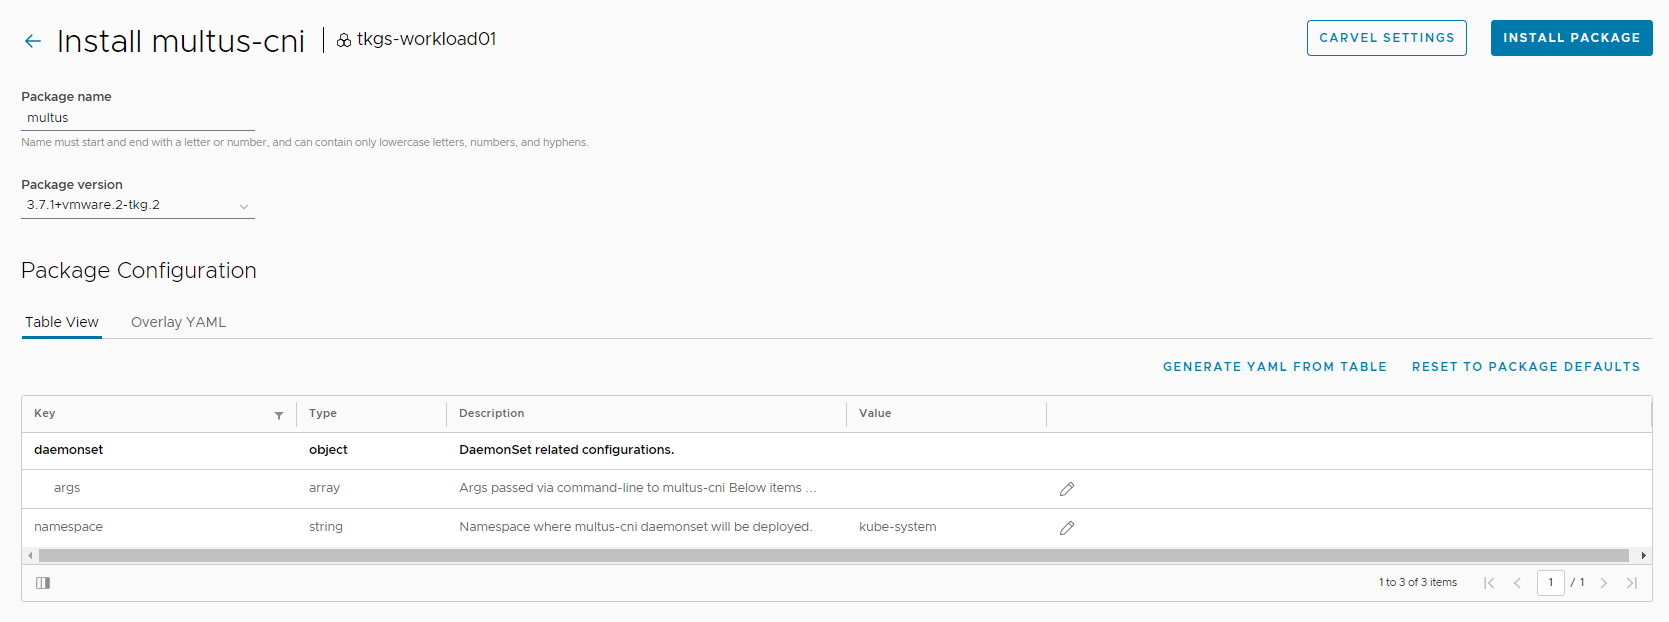
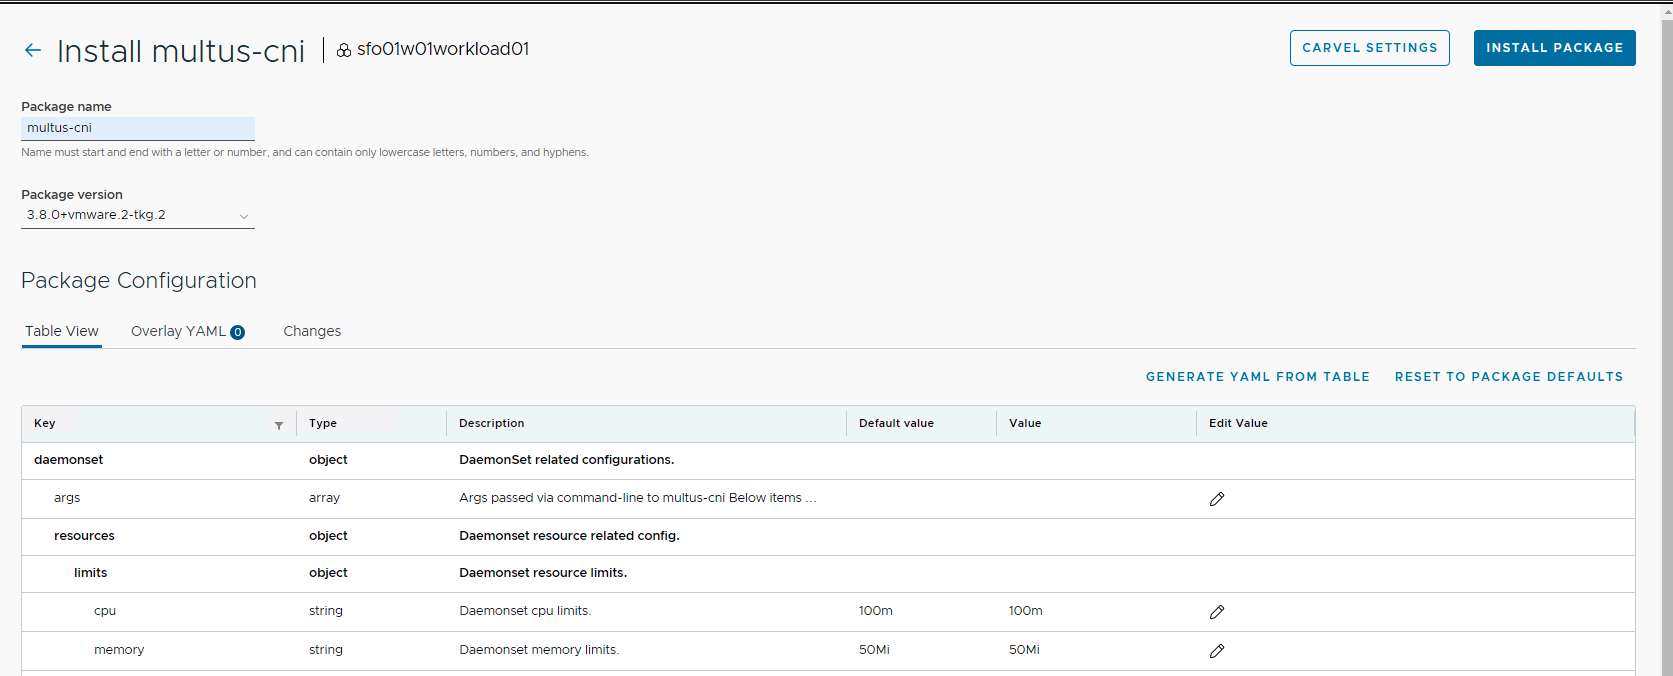
updated final changes

diff --git a/src/deployment-guides/tkg-package-install.md b/src/deployment-guides/tkg-package-install.md
@@ -36,7 +36,7 @@ After supplying any custom parameters, click **Install Package** to initiate the
 
 ![Screenshot of the cert-manager install screen](img/tanzu-pkgs/tanzu-pkgs03.png)
 
-After installing cert-manager, ensure that the installation status for the cert-manager package on the **Installed Packages** screen is **Succeeded**.
+After installing cert-manager, ensure that the installation status for the cert-manager package on the **Installed Tanzu Packages** screen is **Green**.
 
 ![Screenshot showing list of installed packages](img/tanzu-pkgs/tanzu-pkgs04.png)
 
@@ -70,13 +70,13 @@ envoy:
  pspNames: "vmware-system-privileged"
 ```
 
-For a full list of user-configurable values, see the official Contour [documentation](https://docs.vmware.com/en/VMware-Tanzu-Kubernetes-Grid/1.5/vmware-tanzu-kubernetes-grid-15/GUID-packages-ingress-contour.html#optional-configuration-6)
+For a full list of user-configurable values, see the official Contour [documentation](https://docs.vmware.com/en/VMware-Tanzu-Kubernetes-Grid/2.1/using-tkg-21/workload-packages-contour.html)
 
 **Note:** You can leave the default settings if you don’t need to customize the package installation.
 
 ![Screenshot of the Contour installation screen showing a YAML overlay file](img/tanzu-pkgs/tanzu-pkgs06.png)
 
-After installing Contour, ensure that the installation status for the Contour package on the **Installed Packages** screen is **Succeeded**.
+After installing Contour, ensure that the installation status for the Contour package on the **Installed Tanzu Packages** screen is **Green**.
 
 ![Screenshot showing successful installation of Contour](img/tanzu-pkgs/tanzu-pkgs07.png)
 
@@ -111,13 +111,13 @@ metrics:
   enabled: false
 ```
 
-For a full list of user-configurable values, see the official [Harbor documentation](https://docs.vmware.com/en/VMware-Tanzu-Kubernetes-Grid/1.5/vmware-tanzu-kubernetes-grid-15/GUID-packages-harbor-registry.html#harbordatavalues-file-for-vsphere-7-11)
+For a full list of user-configurable values, see the official [Harbor documentation](https://docs.vmware.com/en/VMware-Tanzu-Kubernetes-Grid/2.1/using-tkg-21/workload-packages-harbor.html)
 
 A screenshot of the Harbor installation page showing a YAML file for customizing Harbor installation follows.
 
 ![Screenshot of Harbor installation page showing a sample YAML customization file](img/tanzu-pkgs/tanzu-pkgs08.png)
 
-After installing Harbor, ensure that the installation status for the Harbor package on the **Installed Packages** screen is **Succeeded**.
+After installing Harbor, ensure that the installation status for the Harbor package on the **Installed Tanzu Packages** screen is **Green**.
 
 ![Screenshot showing successful installation of Harbor](img/tanzu-pkgs/tanzu-pkgs09.png)
 
@@ -145,13 +145,13 @@ alertmanager:
     storageClassName: "vsan-default-storage-policy"
 ```
 
-For a full list of user-configurable values, see the official [Prometheus documentation](https://docs.vmware.com/en/VMware-Tanzu-Kubernetes-Grid/1.5/vmware-tanzu-kubernetes-grid-15/GUID-packages-prometheus.html#review-configuration-parameters-9)
+For a full list of user-configurable values, see the official [Prometheus documentation](https://docs.vmware.com/en/VMware-Tanzu-Kubernetes-Grid/2.1/using-tkg-21/workload-packages-prometheus.html)
 
 An example screenshot of a customized Prometheus installation follows.
 
 ![Screenshot showing customized Prometheus installation](img/tanzu-pkgs/tanzu-pkgs10.png)
 
-After installing Prometheus, ensure that the installation status for the Prometheus package on the **Installed Packages** screen is **Succeeded**.
+After installing Prometheus, ensure that the installation status for the Prometheus package on the **Installed Tanzu Packages** screen is **Green**.
 
 ![Screenshot showing successful installation of Prometheus](img/tanzu-pkgs/tanzu-pkgs11.png)
 
@@ -169,13 +169,13 @@ ingress:
 namespace: tanzu-system-monitoring
 ```
 
-For a full list of user-configurable values, see the official [Grafana documentation]https://docs.vmware.com/en/VMware-Tanzu-Kubernetes-Grid/1.5/vmware-tanzu-kubernetes-grid-15/GUID-packages-grafana.html#grafana-package-configuration-parameters-5)
+For a full list of user-configurable values, see the official [Grafana documentation]https://docs.vmware.com/en/VMware-Tanzu-Kubernetes-Grid/2.1/using-tkg-21/workload-packages-grafana.html)
 
 An example screenshot for customizing your Grafana installation follows.
 
 ![Screenshot of Install Grafana screen showing custom YAML file](img/tanzu-pkgs/tanzu-pkgs12.png)
 
-After installing Grafana, ensure that the installation status for the Grafana package on the **Installed Packages** screen is **Succeeded**.
+After installing Grafana, ensure that the installation status for the Grafana package on the **Installed Tanzu Packages** screen is **Green**.
 
 ![Screenshot showing successful installation of Grafana](img/tanzu-pkgs/tanzu-pkgs13.png)
 
@@ -187,7 +187,7 @@ You can use Fluent Bit to gather logs from management clusters or Tanzu Kubernet
 
 The example shown in this document uses an HTTP endpoint [vRealize Log Insight Cloud](https://docs.vmware.com/en/VMware-vRealize-Log-Insight-Cloud/index.html) for forwarding logs from Tanzu Kubernetes clusters.
 
-A sample YAML file for configuring an http endpoint with Fluent Bit is provided as a reference here. For a full list of user-configurable values, see the official [Fluent Bit documentation](https://docs.vmware.com/en/VMware-Tanzu-Kubernetes-Grid/1.5/vmware-tanzu-kubernetes-grid-15/GUID-packages-logging-fluentbit.html#fluent-bit-package-configuration-parameters-4).
+A sample YAML file for configuring an http endpoint with Fluent Bit is provided as a reference here. For a full list of user-configurable values, see the official [Fluent Bit documentation](https://docs.vmware.com/en/VMware-Tanzu-Kubernetes-Grid/2.1/using-tkg-21/workload-packages-fluentbit.html).
 
 Before you add the following YAML code in TMC for installing Fluent Bit, you must [create an API key](https://vmc.techzone.vmware.com/resource/implement-centralized-logging-tanzu-kubernetes-grid-fluent-bit).
 
@@ -225,7 +225,7 @@ An example screenshot for fluent-bit installation follows.
 
 ![Screenshot showing Fluent Bit installation](img/tanzu-pkgs/tanzu-pkgs14.png)
 
-After installing Fluent Bit, ensure that the installation status for the Fluent Bit package on the **Installed Packages** screen has changed to **Successful**.
+After installing Fluent Bit, ensure that the installation status for the Fluent Bit package on the **Installed Tanzu Packages** screen has changed to **Green**.
 
 ![Screenshot showing successful installation of Fluent Bit](img/tanzu-pkgs/tanzu-pkgs15.png)
 
@@ -237,6 +237,6 @@ To install the Multus CNI package, repeat the steps for the package installation
 
 ![Screenshot showing Multus CNI installation](img/tanzu-pkgs/tanzu-pkgs16.png)
 
-After installing Multus CNI, ensure that the installation status for the Multus CNI package on the **Installed Packages** screen is **Succeeded**.
+After installing Multus CNI, ensure that the installation status for the Multus CNI package on the **Installed Tanzu Packages** screen is **Green**.
 
 ![Screenshot showing successful installation of Multus CNI](img/tanzu-pkgs/tanzu-pkgs17.png)
